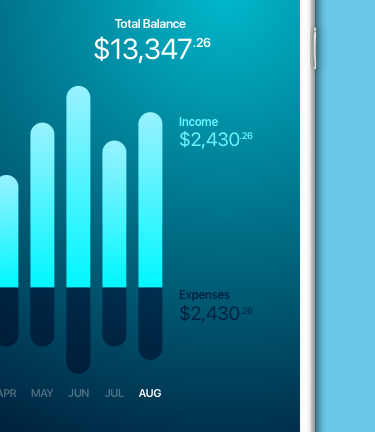
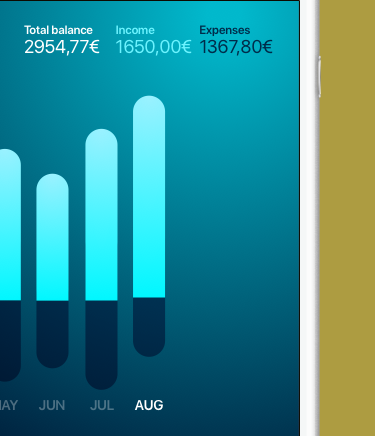
New contents
- Added new content. Copys and images.
- Added @2X images for mobile

diff --git a/index.html b/index.html
@@ -52,7 +52,6 @@
 
   <div class="container">
     <div class="header header-logo">
-
       <img class="hidden-md hidden-lg header-image-Mobile" src="assets/img/Logo-mobile.png">
       </>
       <img class="hidden-xs hidden-sm header-image-Desktop" src="assets/img/Logo-desktop.png">
@@ -70,17 +69,17 @@
 
 
         <div class="Mobile-image">
-          <img class="hidden-md hidden-lg" src="assets/img/Mobile-img-1.png" class="img-responsive Product-image">
+          <img class="hidden-md hidden-lg" src="assets/img/Mobile-img-1.png" srcset="assets/img/Mobile-img-1@2x.png" class="img-responsive Product-image">
           </>
         </div>
         <img src="assets/img/N1.png" class="img-responsive Number-icon">
         </>
-        <h4 id="waypoint1" class="waypoint">Stay connected to your cashflow</h4>
-        <li>- Securely connects to your bank account.</li>
-        <li>- Set up in 2 minutes.</li>
+        <h4 id="waypoint1" class="waypoint">Save in as many accounts as you like with no hidden fees</h4>
+        <li>- Customise accounts to plan for specific expenses</li>
+        <li>- Save smarter for taxes, vacations or updating the tools you use for work</li>
 
         <div class="Mobile-image">
-          <img class="hidden-md hidden-lg" src="assets/img/Mobile-img-2.png" class="img-responsive Product-image">
+          <img class="hidden-md hidden-lg" src="assets/img/Mobile-img-2.png" srcset="assets/img/Mobile-img-2@2x.png" class="img-responsive Product-image">
           </>
         </div>
         <img src="assets/img/N2.png" class="img-responsive Number-icon">
@@ -90,16 +89,26 @@
         <li>- Sets aside a % of each payment over $50</li>
         <li>- Use that % for taxes or any lump sum payment</li>
 
-
         <div class="Mobile-image">
-          <img class="hidden-md hidden-lg" src="assets/img/Mobile-img-3.png" class="img-responsive Product-image">
+          <img class="hidden-md hidden-lg" src="assets/img/Mobile-img-3.png" srcset="assets/img/Mobile-img-3@2x.png" class="img-responsive Product-image">
           </>
         </div>
         <img src="assets/img/N3.png" class="img-responsive Number-icon">
         </>
-        <h4>Save in as many accounts as you like with no hidden fees</h4>
-        <li>- Customise accounts to plan for specific expenses</li>
-        <li>- Save smarter for taxes, vacations or updating the tools you use for work</li>
+        <h4 id="waypoint3" class="waypoint">Stay connected to your cashflow</h4>
+        <li>- Securely connects to your bank account.</li>
+        <li>- Set up in 2 minutes.</li>
+
+        <div class="Mobile-image">
+          <img class="hidden-md hidden-lg" src="assets/img/Mobile-img-4.png" srcset="assets/img/Mobile-img-4@2x.png" class="img-responsive Product-image">
+          </>
+        </div>
+        <img src="assets/img/N4.png" class="img-responsive Number-icon">
+        </>
+        <h4>Truly understand how much you’re making</h4>
+        <li>- Start seeing your money in the long term </li>
+        <li>- See the average you make each month after expenses and taxes</li>
+        <li>- Get clarity on how you really spend your money</li>
 
       </div>
       <div class="col-md-6 Desktop-product-image-block vcenter">
@@ -130,7 +139,8 @@
         <div class="col-md-6">
           <div class="footer-email">
 
-            <form action="https://helloliquid.us17.list-manage.com/subscribe/post?u=9d253e3ebf1bc0e2332e08877&amp;id=09c629ff4c" method="post" id="mc-embedded-subscribe-form" name="mc-embedded-subscribe-form" class="input-group input-group-lg validate" target="_blank" novalidate>
+            <form action="https://helloliquid.us17.list-manage.com/subscribe/post?u=9d253e3ebf1bc0e2332e08877&amp;id=09c629ff4c" method="post" id="mc-embedded-subscribe-form" name="mc-embedded-subscribe-form" class="input-group input-group-lg validate" target="_blank"
+              novalidate>
 
               <input type="email" name="EMAIL" class="required email form-control signup-email-input" placeholder="Your email" aria-describedby="sizing-addon1" id="mce-EMAIL">
               <span class="input-group-btn border-0">

diff --git a/assets/waypoints/waypoints.js b/assets/waypoints/waypoints.js
@@ -21,3 +21,15 @@ var waypoint2 = new Waypoint({
     console.log("waypoint2: "+direction);
   }
 });
+
+var waypoint3 = new Waypoint({
+  element: document.getElementById('waypoint3'),
+  handler: function(direction) {
+    if (direction=="down") {
+    document.getElementById('Product-image-1').src='assets/img/Desktop-img-4.png';
+  } else if (direction=="up") {
+    document.getElementById('Product-image-1').src='assets/img/Desktop-img-3.png';
+  }
+    console.log("waypoint3: "+direction);
+  }
+});

diff --git a/assets/liquid-website.css b/assets/liquid-website.css
@@ -14,7 +14,6 @@
   display: none;
   left: 50%;
   z-index: 3;
-
 }
 
 .Image-loader {
@@ -64,7 +63,7 @@
 /*Email footer*/
 
 .signup-footer {
-  position:fixed;
+  position: fixed;
   width: 100%;
   height: 80px;
   bottom: 0;
@@ -77,7 +76,7 @@
   padding-top: 20px;
 }
 
-.form-control.signup-email-input, .form-control.signup-email-input:focus  {
+.form-control.signup-email-input, .form-control.signup-email-input:focus {
   display: table-cell;
   background-color: #EDEAEA;
   color: #A9A9A9;
